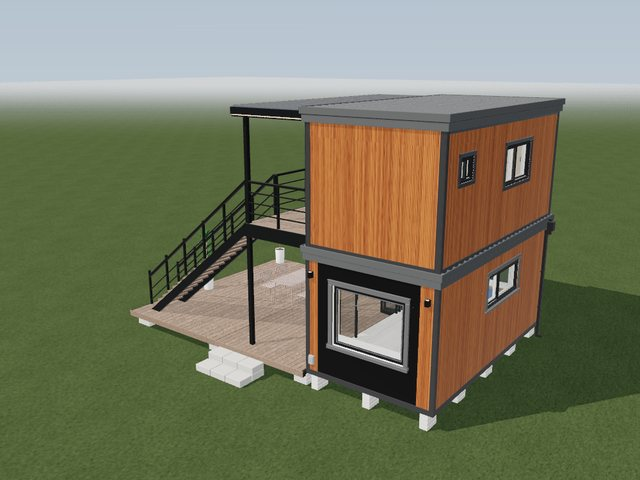
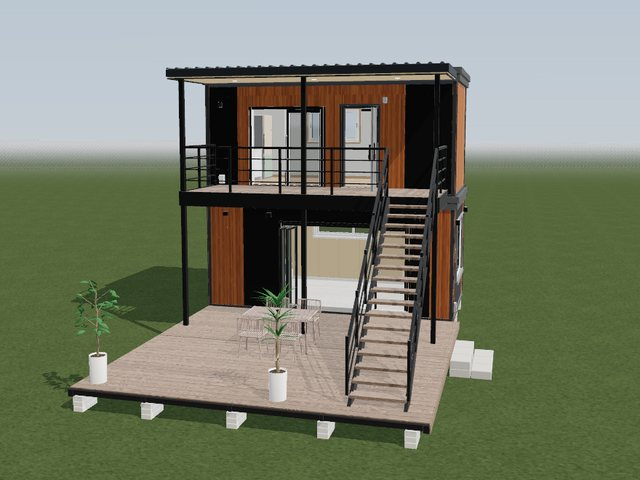
전시장 카드: 사진 위 작은 도면 빼기 · 쌍둥이 2층형 사진을 포치(테라스) 앞 정면샷으로 (#275)
Claude-Session: https://claude.ai/code/session_01Bxgd5zxfawC3gjQbMBUDuZ

diff --git a/src/ui.js b/src/ui.js
@@ -205,7 +205,7 @@ function enterEditor(loadFn) {
   if (_dash && _dash.editor) setTimeout(() => { _dash.editor._resize(); _dash.editor.applyInitialView(); }, 0);
 }
 // onDelete: 휴지통으로 보내기(관리자) — { hard: true } 면 이 기기 저장처럼 바로 삭제
-// photo: 대표 사진(온라인 카탈로그와 같은 이미지) — 있으면 사진을 크게, 도면은 오른쪽 아래 작게 / code: 카탈로그 모델명
+// photo: 대표 사진(온라인 카탈로그와 같은 이미지) — 있으면 도면 미리보기 대신 사진 / code: 카탈로그 모델명
 function projectCard(name, design, meta, onOpen, onDelete, { hard = false, onMove = null, photo = null, code = null, codeNote = null } = {}) {
   const card = document.createElement('div');
   card.className = 'dash-card' + (photo ? ' dc-has-photo' : '');
@@ -214,9 +214,6 @@ function projectCard(name, design, meta, onOpen, onDelete, { hard = false, onMov
     const img = document.createElement('img'); img.src = photo; img.alt = code || name; img.loading = 'lazy'; img.draggable = false;
     img.onerror = () => { card.classList.remove('dc-has-photo'); ph.remove(); };   // 사진이 없으면 도면 미리보기만
     ph.appendChild(img);
-    const mini = document.createElement('canvas'); mini.width = 192; mini.height = 144; mini.className = 'dc-mini';
-    try { drawPlanThumb(mini, design); } catch (e) { /* noop */ }
-    ph.appendChild(mini);
     card.appendChild(ph);
   }
   const cv = document.createElement('canvas'); cv.width = 240; cv.height = 180; cv.className = 'dc-thumb';

diff --git a/styles/app.css b/styles/app.css
@@ -87,7 +87,6 @@ body {
 .dash-card .dc-photo { position: relative; width: 100%; aspect-ratio: 4 / 3; background: #eef1f4; border-bottom: 1px solid var(--line); overflow: hidden; }
 .dash-card .dc-photo img { width: 100%; height: 100%; object-fit: cover; display: block; transition: transform .25s; }
 .dash-card:hover .dc-photo img { transform: scale(1.03); }
-.dash-card .dc-mini { position: absolute; right: 8px; bottom: 8px; width: 30%; aspect-ratio: 4 / 3; height: auto; border-radius: 6px; background: #f5f7fa; box-shadow: 0 2px 8px rgba(0,0,0,.25); border: 2px solid #fff; }
 .dash-card.dc-has-photo > .dc-thumb { display: none; }
 .dash-card .dc-code { font-size: 12.5px; font-weight: 800; color: #c8102e; letter-spacing: .2px; margin-bottom: 3px; }
 .dash-card .dc-code small { font-weight: 600; color: #8a9099; font-size: 11px; margin-left: 2px; }

diff --git a/src/templates.js b/src/templates.js
@@ -617,7 +617,7 @@ const T = [
     // 쌍둥이 10평 2층형 — 4평동 위에 6평동을 올림 · 데크에서 외부 계단으로 2층 테라스 → 6평동 (블렌더 모델 기준)
     id: 'twin-10-2f',
     // 온라인 카탈로그(seum-catalog) 대표 사진·모델명 — 카탈로그에 없는 변형이라 3D 렌더 사진
-    photo: 'models/thumbs/twin-10-2f.jpg', code: 'FOREST10-BK', codeNote: '2층 변형',
+    photo: 'models/thumbs/twin-10-2f.jpg?v=2', code: 'FOREST10-BK', codeNote: '2층 변형',
     title: '세움 쌍둥이 10평 2층형 (4평 위 6평 · 외부 계단)',
     category: '농막',
     showroom: '본점',
